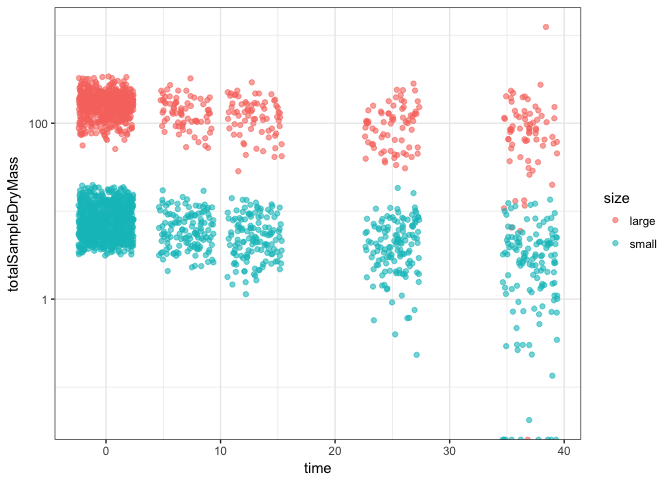
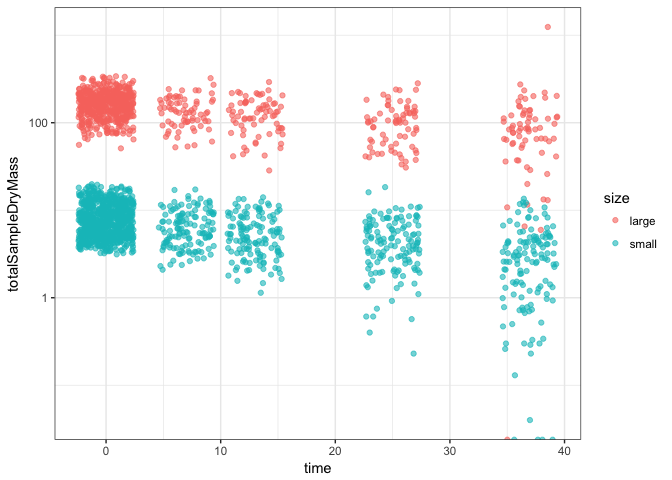
fixes a bug that the last merge created and updates a figure

diff --git a/README.md b/README.md
@@ -131,7 +131,7 @@ harvest_mass<-LoadHarvestFiles()
 
 ``` r
 #create a complete sample mass df for all time points
-mass.data<-rbind(initial_mass, harvest_mass)
+mass.data<-bind_rows(initial_mass, harvest_mass)
 ```
 
 Identify outliers in mass loss data
@@ -149,11 +149,12 @@ mass.data %>%
 mass.data[which.max(mass.data$totalSampleDryMass),]
 ```
 
-    ## # A tibble: 1 x 9
-    ##    unique Species  size  time totalSampleDryMass   density
-    ##     <chr>   <chr> <chr> <dbl>              <dbl>     <dbl>
-    ## 1 ALLI111    ALLI large    37           1242.641 0.7351301
-    ## # ... with 3 more variables: fruiting <chr>, insects <chr>, drill <chr>
+    ## # A tibble: 1 x 10
+    ##    unique Species  size  time totalSampleDryMass density
+    ##     <chr>   <chr> <chr> <dbl>              <dbl>   <dbl>
+    ## 1 ALLI111    ALLI large    37            1242.64    0.74
+    ## # ... with 4 more variables: fruiting <chr>, insects <chr>, drill <chr>,
+    ## #   notes <chr>
 
 ``` r
 outlier.uniques<-as.character(mass.data[which.max(mass.data$totalSampleDryMass),"unique"])
@@ -183,12 +184,12 @@ filter(mass.data, size=="small", time==25) %>%
 tmp[1:2,]
 ```
 
-    ## # A tibble: 2 x 9
-    ##   unique Species  size  time totalSampleDryMass   density fruiting insects
-    ##    <chr>   <chr> <chr> <dbl>              <dbl>     <dbl>    <chr>   <chr>
-    ## 1 alli3l    alli small    25              18.37 0.6488873   hyphae        
-    ## 2 hase1k    hase small    25              16.04 0.6005241                 
-    ## # ... with 1 more variables: drill <chr>
+    ## # A tibble: 2 x 10
+    ##   unique Species  size  time totalSampleDryMass density fruiting insects
+    ##    <chr>   <chr> <chr> <dbl>              <dbl>   <dbl>    <chr>   <chr>
+    ## 1 alli3l    alli small    25              18.37    0.65   hyphae        
+    ## 2 hase1k    hase small    25              16.04    0.60                 
+    ## # ... with 2 more variables: drill <chr>, notes <chr>
 
 ``` r
 outlier.uniques<-c(outlier.uniques, tmp$unique[1:2])
@@ -200,20 +201,15 @@ Are these real 0's?
 mass.data[which(mass.data$totalSampleDryMass==0),]
 ```
 
-    ## # A tibble: 10 x 9
-    ##     unique Species  size  time totalSampleDryMass density fruiting insects
-    ##      <chr>   <chr> <chr> <dbl>              <dbl>   <dbl>    <chr>   <chr>
-    ##  1  ripi1j    ripi small    37                  0     NaN                4
-    ##  2  eute2b    eute small    37                  0     NaN             <NA>
-    ##  3  acel2f    acel small    37                  0     NaN                3
-    ##  4  olst1c    olst small    37                  0     NaN             <NA>
-    ##  5  eusc3j    eusc small    37                  0     NaN                3
-    ##  6  olst1e    olst small    37                  0     NaN             <NA>
-    ##  7 ALLI311    ALLI large    37                  0     NaN             <NA>
-    ##  8  hase2b    hase small    37                  0     NaN                4
-    ##  9  baae1a    baae small    37                  0     NaN             <NA>
-    ## 10  eute1e    eute small    37                  0     NaN                4
-    ## # ... with 1 more variables: drill <chr>
+    ## # A tibble: 5 x 10
+    ##    unique Species  size  time totalSampleDryMass density fruiting insects
+    ##     <chr>   <chr> <chr> <dbl>              <dbl>   <dbl>    <chr>   <chr>
+    ## 1  ripi1j    ripi small    37                  0     NaN                4
+    ## 2 ALLI311    ALLI large    37                  0     NaN             <NA>
+    ## 3  hase2b    hase small    37                  0     NaN                4
+    ## 4  baae1a    baae small    37                  0     NaN             <NA>
+    ## 5  eute1e    eute small    37                  0     NaN                4
+    ## # ... with 2 more variables: drill <chr>, notes <chr>
 
 Remove outliers from mass.data and merge time zero with the other harvests to calculate proportion mass remaining at each time point
 
@@ -242,8 +238,11 @@ Using `litterfitter` to apply both negative exponenial and weibull to all specie
 spdf <- read_csv("derived_data/mass_loss_parameters.csv")
 #write_csv(spdf,"derived_data/mass_loss_parameters.csv")
 
-
-ggplot(spdf,aes(x=t70,y=w.t70,col=size))+geom_point()+labs(x="Time to 30% mass loss (negative exponential)", y="weibull time to 30% mass loss")+geom_abline(slope=1,intercept=0,linetype="dashed")+theme_bw()
+ggplot(spdf,aes(x=t70,y=w.t70,col=size))+
+  geom_point()+
+  labs(x="Time to 30% mass loss (negative exponential)", 
+       y="weibull time to 30% mass loss")+
+  geom_abline(slope=1,intercept=0,linetype="dashed")+theme_bw()
 ```
 
 ![](readme_files/figure-markdown_github-ascii_identifiers/unnamed-chunk-9-1.png)
@@ -281,8 +280,8 @@ plot_multiple_fits(time = out$time/12,
                    xlab = 'Time', ylab = 'Proportion mass remaining',iters=1000)
 ```
 
-    ## Number of successful fits:  987  out of 1000 
-    ## Number of successful fits:  999  out of 1000
+    ## Number of successful fits:  988  out of 1000 
+    ## Number of successful fits:  1000  out of 1000
 
 ![](readme_files/figure-markdown_github-ascii_identifiers/unnamed-chunk-10-1.png) Checking that the fits are the same for weibull which they are
 
@@ -300,14 +299,14 @@ print(plot_1)
 
     ## $optimFit
     ## $optimFit$par
-    ## [1] 2.167896 1.575979
+    ## [1] 2.167791 1.576424
     ## 
     ## $optimFit$value
-    ## [1] 0.5691124
+    ## [1] 0.5690418
     ## 
     ## $optimFit$counts
     ## function gradient 
-    ##       25       25 
+    ##       22       22 
     ## 
     ## $optimFit$convergence
     ## [1] 0
@@ -317,16 +316,16 @@ print(plot_1)
     ## 
     ## 
     ## $logLik
-    ## [1] 10.84625
+    ## [1] 10.84774
     ## 
     ## $fitAIC
-    ## [1] -17.6925
+    ## [1] -17.69548
     ## 
     ## $fitAICc
-    ## [1] -17.12107
+    ## [1] -17.12405
     ## 
     ## $fitBIC
-    ## [1] -15.33639
+    ## [1] -15.33937
     ## 
     ## $time
     ##  [1] 0.5833333 0.5833333 0.5833333 0.5833333 0.5833333 0.5833333 1.0833333
@@ -335,16 +334,16 @@ print(plot_1)
     ## [22] 3.0833333 3.0833333 3.0833333
     ## 
     ## $mass
-    ##  [1] 0.8074037 0.7059619 0.7383556 0.9853129 0.9853245 0.9773359 0.4475656
-    ##  [8] 0.4802992 0.6065266 0.8842247 0.9266620 0.8901663 0.2295541 0.2520352
-    ## [15] 0.4086021 0.4715314 0.6029402 0.5922796 0.0000000 0.1444158 0.0307866
-    ## [22] 0.3935514 0.1626236 0.1413729
+    ##  [1] 0.80702715 0.70635658 0.73831715 0.98531286 0.98532447 0.97733591
+    ##  [7] 0.44745619 0.48033810 0.60704277 0.88422473 0.92666205 0.89016632
+    ## [13] 0.22928849 0.25228526 0.40869266 0.47153137 0.60294025 0.59227957
+    ## [19] 0.00000000 0.14378464 0.03073876 0.39355135 0.16262361 0.14137293
     ## 
     ## $predicted
-    ##  [1] 0.8813256 0.8813256 0.8813256 0.8813256 0.8813256 0.8813256 0.7152553
-    ##  [8] 0.7152553 0.7152553 0.7152553 0.7152553 0.7152553 0.3909324 0.3909324
-    ## [15] 0.3909324 0.3909324 0.3909324 0.3909324 0.1751357 0.1751357 0.1751357
-    ## [22] 0.1751357 0.1751357 0.1751357
+    ##  [1] 0.8813822 0.8813822 0.8813822 0.8813822 0.8813822 0.8813822 0.7153111
+    ##  [8] 0.7153111 0.7153111 0.7153111 0.7153111 0.7153111 0.3909110 0.3909110
+    ## [15] 0.3909110 0.3909110 0.3909110 0.3909110 0.1750647 0.1750647 0.1750647
+    ## [22] 0.1750647 0.1750647 0.1750647
     ## 
     ## $model
     ## [1] "weibull"
@@ -371,7 +370,10 @@ fit_litter(time = time/12,
         mass.remaining = pmr, model = c("weibull"), iters = 1000) ->plot_2
 ```
 
-    ## Number of successful fits:  999  out of 1000
+    ## Number of successful fits:  1000  out of 1000
+
+    ## Warning in multioptimFit(time, mass.remaining, model, iters = iters, upper
+    ## = upper, : May not have found global best fit; increase iterations
 
 ``` r
 print(plot_2)
@@ -379,14 +381,14 @@ print(plot_2)
 
     ## $optimFit
     ## $optimFit$par
-    ## [1] 2.167896 1.575979
+    ## [1] 2.167791 1.576424
     ## 
     ## $optimFit$value
-    ## [1] 0.5691124
+    ## [1] 0.5690418
     ## 
     ## $optimFit$counts
     ## function gradient 
-    ##       13       13 
+    ##       32       32 
     ## 
     ## $optimFit$convergence
     ## [1] 0
@@ -396,16 +398,16 @@ print(plot_2)
     ## 
     ## 
     ## $logLik
-    ## [1] 54.60435
+    ## [1] 54.60807
     ## 
     ## $fitAIC
-    ## [1] -105.2087
+    ## [1] -105.2161
     ## 
     ## $fitAICc
-    ## [1] -104.9982
+    ## [1] -105.0056
     ## 
     ## $fitBIC
-    ## [1] -101.02
+    ## [1] -101.0274
     ## 
     ## $time
     ##  [1] 0.0000000 0.0000000 0.0000000 0.0000000 0.0000000 0.0000000 0.0000000
@@ -419,15 +421,16 @@ print(plot_2)
     ## [57] 3.0833333 3.0833333 3.0833333 3.0833333
     ## 
     ## $mass
-    ##  [1] 1.0000000 1.0000000 1.0000000 1.0000000 1.0000000 1.0000000 1.0000000
-    ##  [8] 1.0000000 1.0000000 1.0000000 1.0000000 1.0000000 1.0000000 1.0000000
-    ## [15] 1.0000000 1.0000000 1.0000000 1.0000000 1.0000000 1.0000000 1.0000000
-    ## [22] 1.0000000 1.0000000 1.0000000 1.0000000 1.0000000 1.0000000 1.0000000
-    ## [29] 1.0000000 1.0000000 1.0000000 1.0000000 1.0000000 1.0000000 1.0000000
-    ## [36] 1.0000000 0.8074037 0.7059619 0.7383556 0.9853129 0.9853245 0.9773359
-    ## [43] 0.4475656 0.4802992 0.6065266 0.8842247 0.9266620 0.8901663 0.2295541
-    ## [50] 0.2520352 0.4086021 0.4715314 0.6029402 0.5922796 0.0000000 0.1444158
-    ## [57] 0.0307866 0.3935514 0.1626236 0.1413729
+    ##  [1] 1.00000000 1.00000000 1.00000000 1.00000000 1.00000000 1.00000000
+    ##  [7] 1.00000000 1.00000000 1.00000000 1.00000000 1.00000000 1.00000000
+    ## [13] 1.00000000 1.00000000 1.00000000 1.00000000 1.00000000 1.00000000
+    ## [19] 1.00000000 1.00000000 1.00000000 1.00000000 1.00000000 1.00000000
+    ## [25] 1.00000000 1.00000000 1.00000000 1.00000000 1.00000000 1.00000000
+    ## [31] 1.00000000 1.00000000 1.00000000 1.00000000 1.00000000 1.00000000
+    ## [37] 0.80702715 0.70635658 0.73831715 0.98531286 0.98532447 0.97733591
+    ## [43] 0.44745619 0.48033810 0.60704277 0.88422473 0.92666205 0.89016632
+    ## [49] 0.22928849 0.25228526 0.40869266 0.47153137 0.60294025 0.59227957
+    ## [55] 0.00000000 0.14378464 0.03073876 0.39355135 0.16262361 0.14137293
     ## 
     ## $predicted
     ##  [1] 1.0000000 1.0000000 1.0000000 1.0000000 1.0000000 1.0000000 1.0000000
@@ -435,10 +438,10 @@ print(plot_2)
     ## [15] 1.0000000 1.0000000 1.0000000 1.0000000 1.0000000 1.0000000 1.0000000
     ## [22] 1.0000000 1.0000000 1.0000000 1.0000000 1.0000000 1.0000000 1.0000000
     ## [29] 1.0000000 1.0000000 1.0000000 1.0000000 1.0000000 1.0000000 1.0000000
-    ## [36] 1.0000000 0.8813256 0.8813256 0.8813256 0.8813256 0.8813256 0.8813256
-    ## [43] 0.7152553 0.7152553 0.7152553 0.7152553 0.7152553 0.7152553 0.3909324
-    ## [50] 0.3909324 0.3909324 0.3909324 0.3909324 0.3909324 0.1751357 0.1751357
-    ## [57] 0.1751357 0.1751357 0.1751357 0.1751357
+    ## [36] 1.0000000 0.8813822 0.8813822 0.8813822 0.8813822 0.8813822 0.8813822
+    ## [43] 0.7153111 0.7153111 0.7153111 0.7153111 0.7153111 0.7153111 0.3909110
+    ## [50] 0.3909110 0.3909110 0.3909110 0.3909110 0.3909110 0.1750647 0.1750647
+    ## [57] 0.1750647 0.1750647 0.1750647 0.1750647
     ## 
     ## $model
     ## [1] "weibull"
@@ -571,6 +574,8 @@ grid.arrange(p.aic, p.k, p.alpha)
 #dev.off()
 ```
 
+Not a lot of information in mean inital community distance about species+size decay trajectories
+
 ### Plot beta diversity of wood traits vs distance in decay params
 
 ``` r
@@ -659,6 +664,8 @@ grid.arrange(p.aic, p.k, p.alpha)
 #dev.off()
 ```
 
+Seems like there is more information in inital wood trait distance about species+size decay trajectories than there is in the initial mean communities distances
+
 ### Look at 3-way relationship between species+size distances: wood trait, microbial community, and k
 
 ``` r
@@ -668,28 +675,37 @@ comm_wood_decay.dist.k<-left_join(comm_decay.dist.k, wood_decay.dist.k)
     ## Joining, by = c("codePair", "size", "decayparam_dist")
 
 ``` r
-p1<-ggplot(comm_wood_decay.dist.k, aes(x=mean_comm_dist, y=decayparam_dist)) + 
+#what is up with the missing data in woodTraitDist?
+select(comm_wood_decay.dist.k, size, mean_comm_dist, woodTraitDist, decayparam_dist) %>%
+  filter(complete.cases(size, comm_wood_decay.dist.k, mean_comm_dist, woodTraitDist, decayparam_dist)) -> df.k
+
+p1<-ggplot(df.k, aes(x=mean_comm_dist, y=decayparam_dist, color=size)) + 
   geom_point() + xlab("Mean microbial community distance") + ylab("Decay rate (k) distance")
 
-p2<-ggplot(comm_wood_decay.dist.k, aes(x=woodTraitDist, y=decayparam_dist)) + 
+p2<-ggplot(df.k, aes(x=woodTraitDist, y=decayparam_dist, color=size)) + 
   geom_point() +  xlab("Wood trait distance") + ylab("Decay rate (k) distance")
 
-p3<-ggplot(comm_wood_decay.dist.k, aes(x=mean_comm_dist, y=woodTraitDist)) + 
+p3<-ggplot(df.k, aes(x=mean_comm_dist, y=woodTraitDist, color=size)) + 
   geom_point() +  xlab("Mean microbial community distance") + ylab("Wood trait distance")
 
 #pdf('output/triDist_k_byCode.pdf', width=6, height=6)
 grid.arrange(p1,p2,p3, ncol=2)
 ```
 
-    ## Warning: Removed 208 rows containing missing values (geom_point).
-
-    ## Warning: Removed 208 rows containing missing values (geom_point).
-
 ![](readme_files/figure-markdown_github-ascii_identifiers/unnamed-chunk-14-1.png)
 
 ``` r
 #dev.off()
+
+cor(df.k[,-1])
 ```
+
+    ##                 mean_comm_dist woodTraitDist decayparam_dist
+    ## mean_comm_dist      1.00000000    0.07362931      0.09170396
+    ## woodTraitDist       0.07362931    1.00000000      0.26622256
+    ## decayparam_dist     0.09170396    0.26622256      1.00000000
+
+Another view that emphasizes the relationship between wood trait distance and decay rate distances between species+size classes. Mean microbial community distance is not correlated with either variable.
 
 ### Plot with species+size beta diversity of microbial community vs AIC of neg.exponential
 
@@ -767,3 +783,7 @@ grid.arrange(p.negexp.aic, p.w.aic)
 ``` r
 #dev.off()
 ```
+
+Expected to see a positive relationship between AIC and within species+size class microbial community distance. In other words, expected that samples with similar initial microbial communities would have better-fitting decay models.
+
+The large size samples show no pattern The small size samples show (maybe) the opposite pattern
